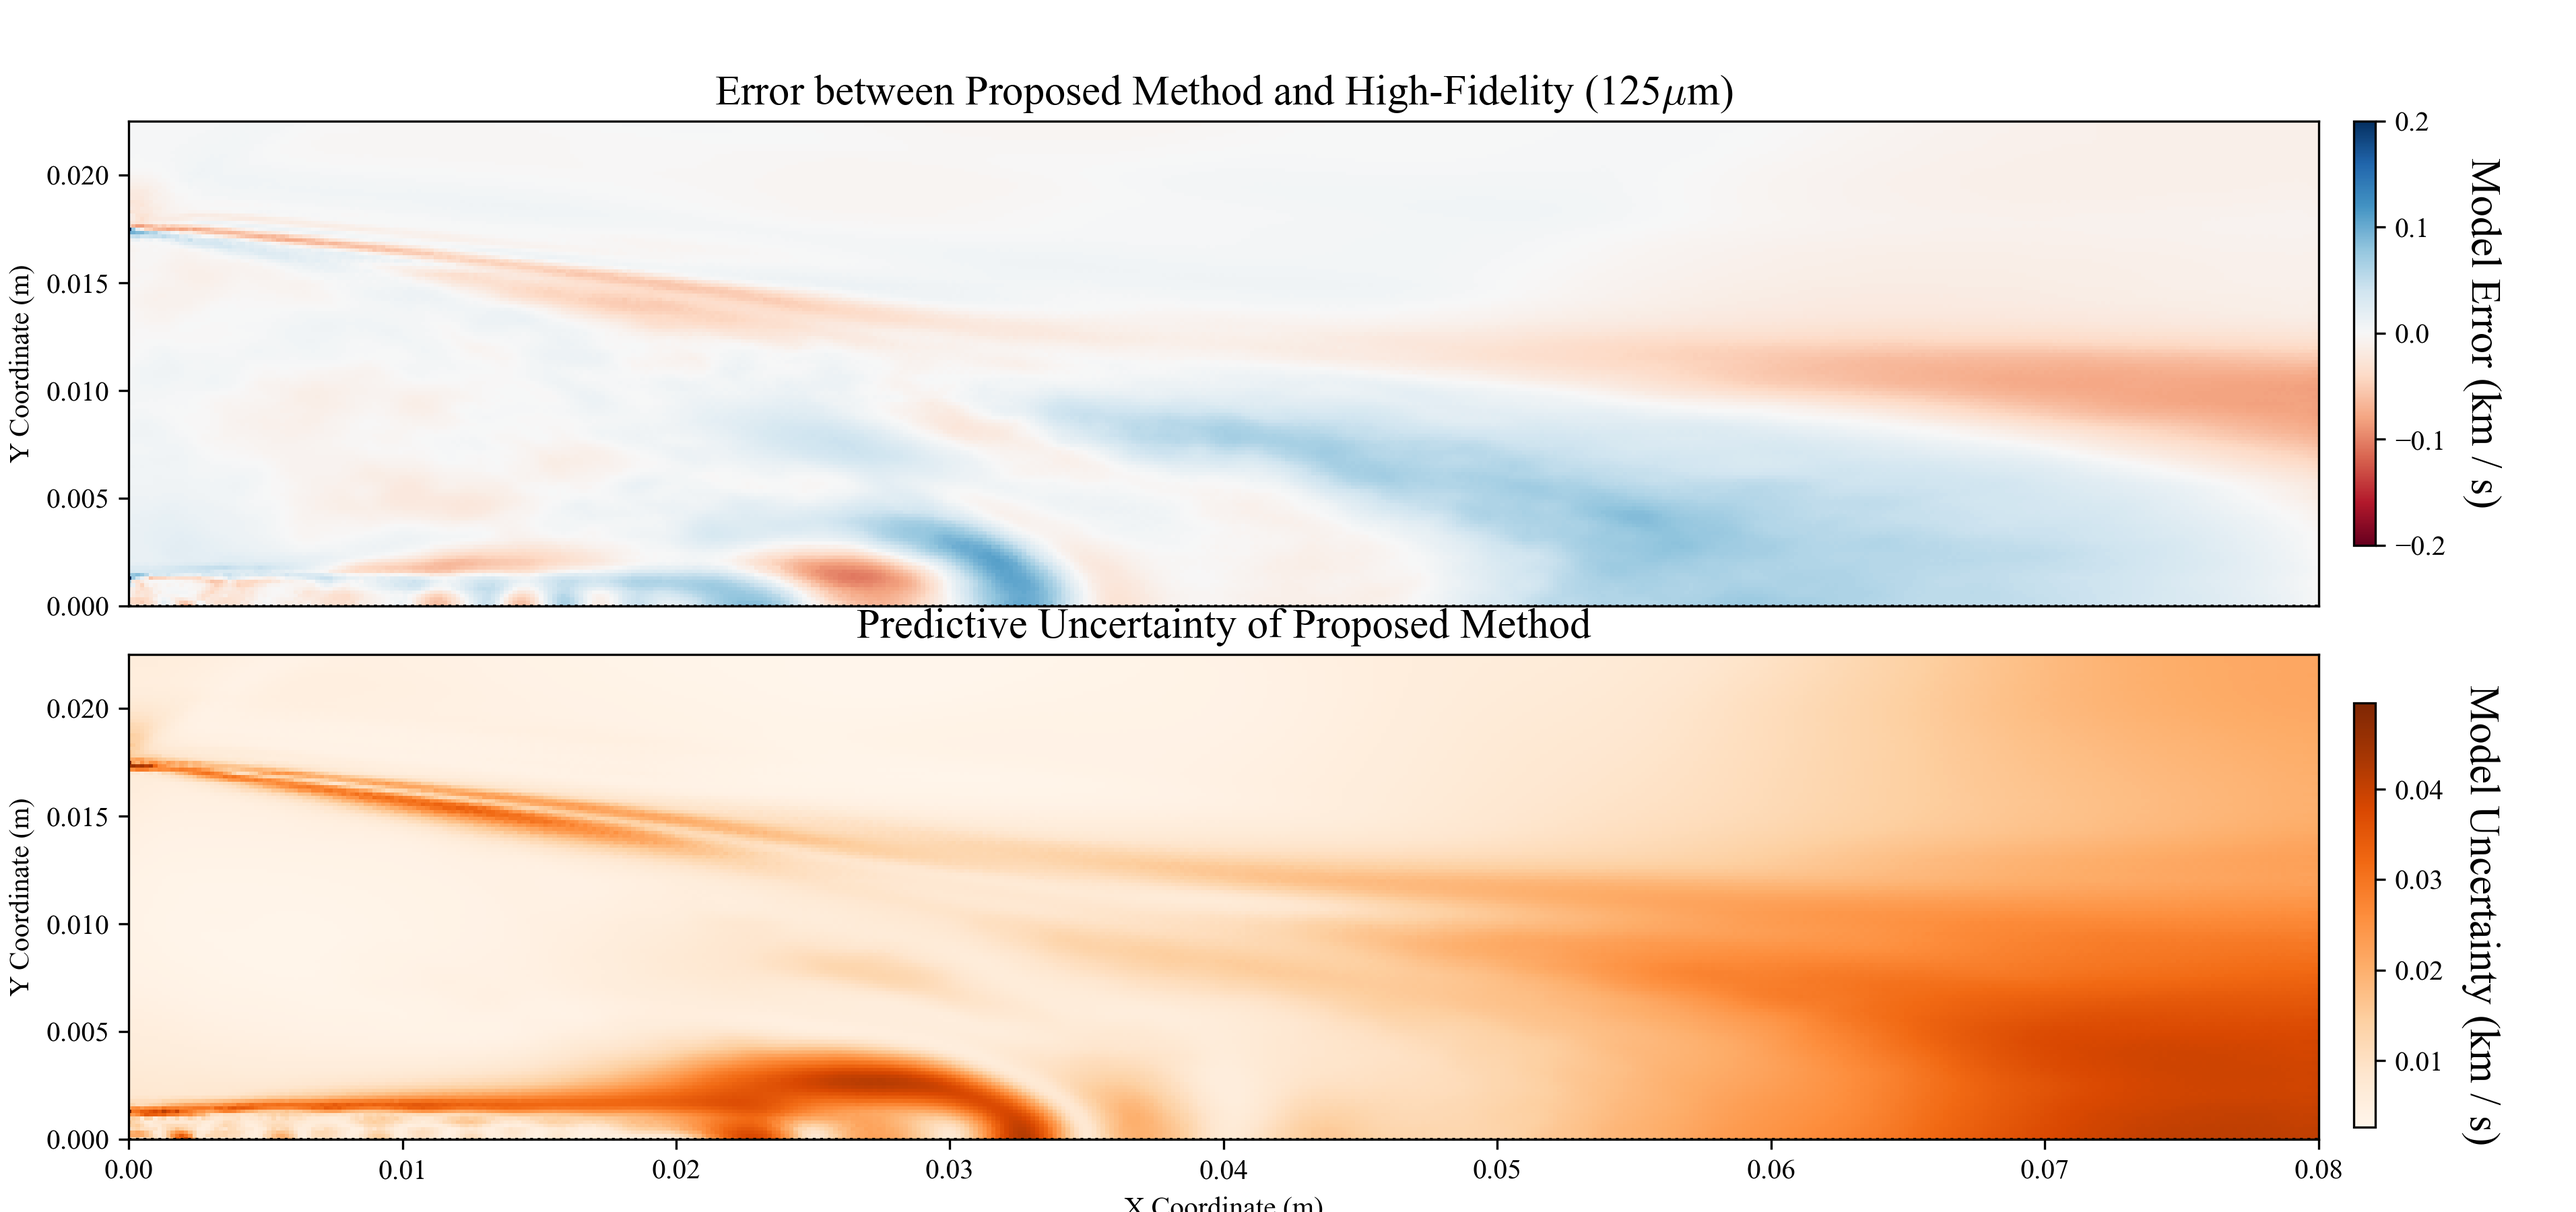
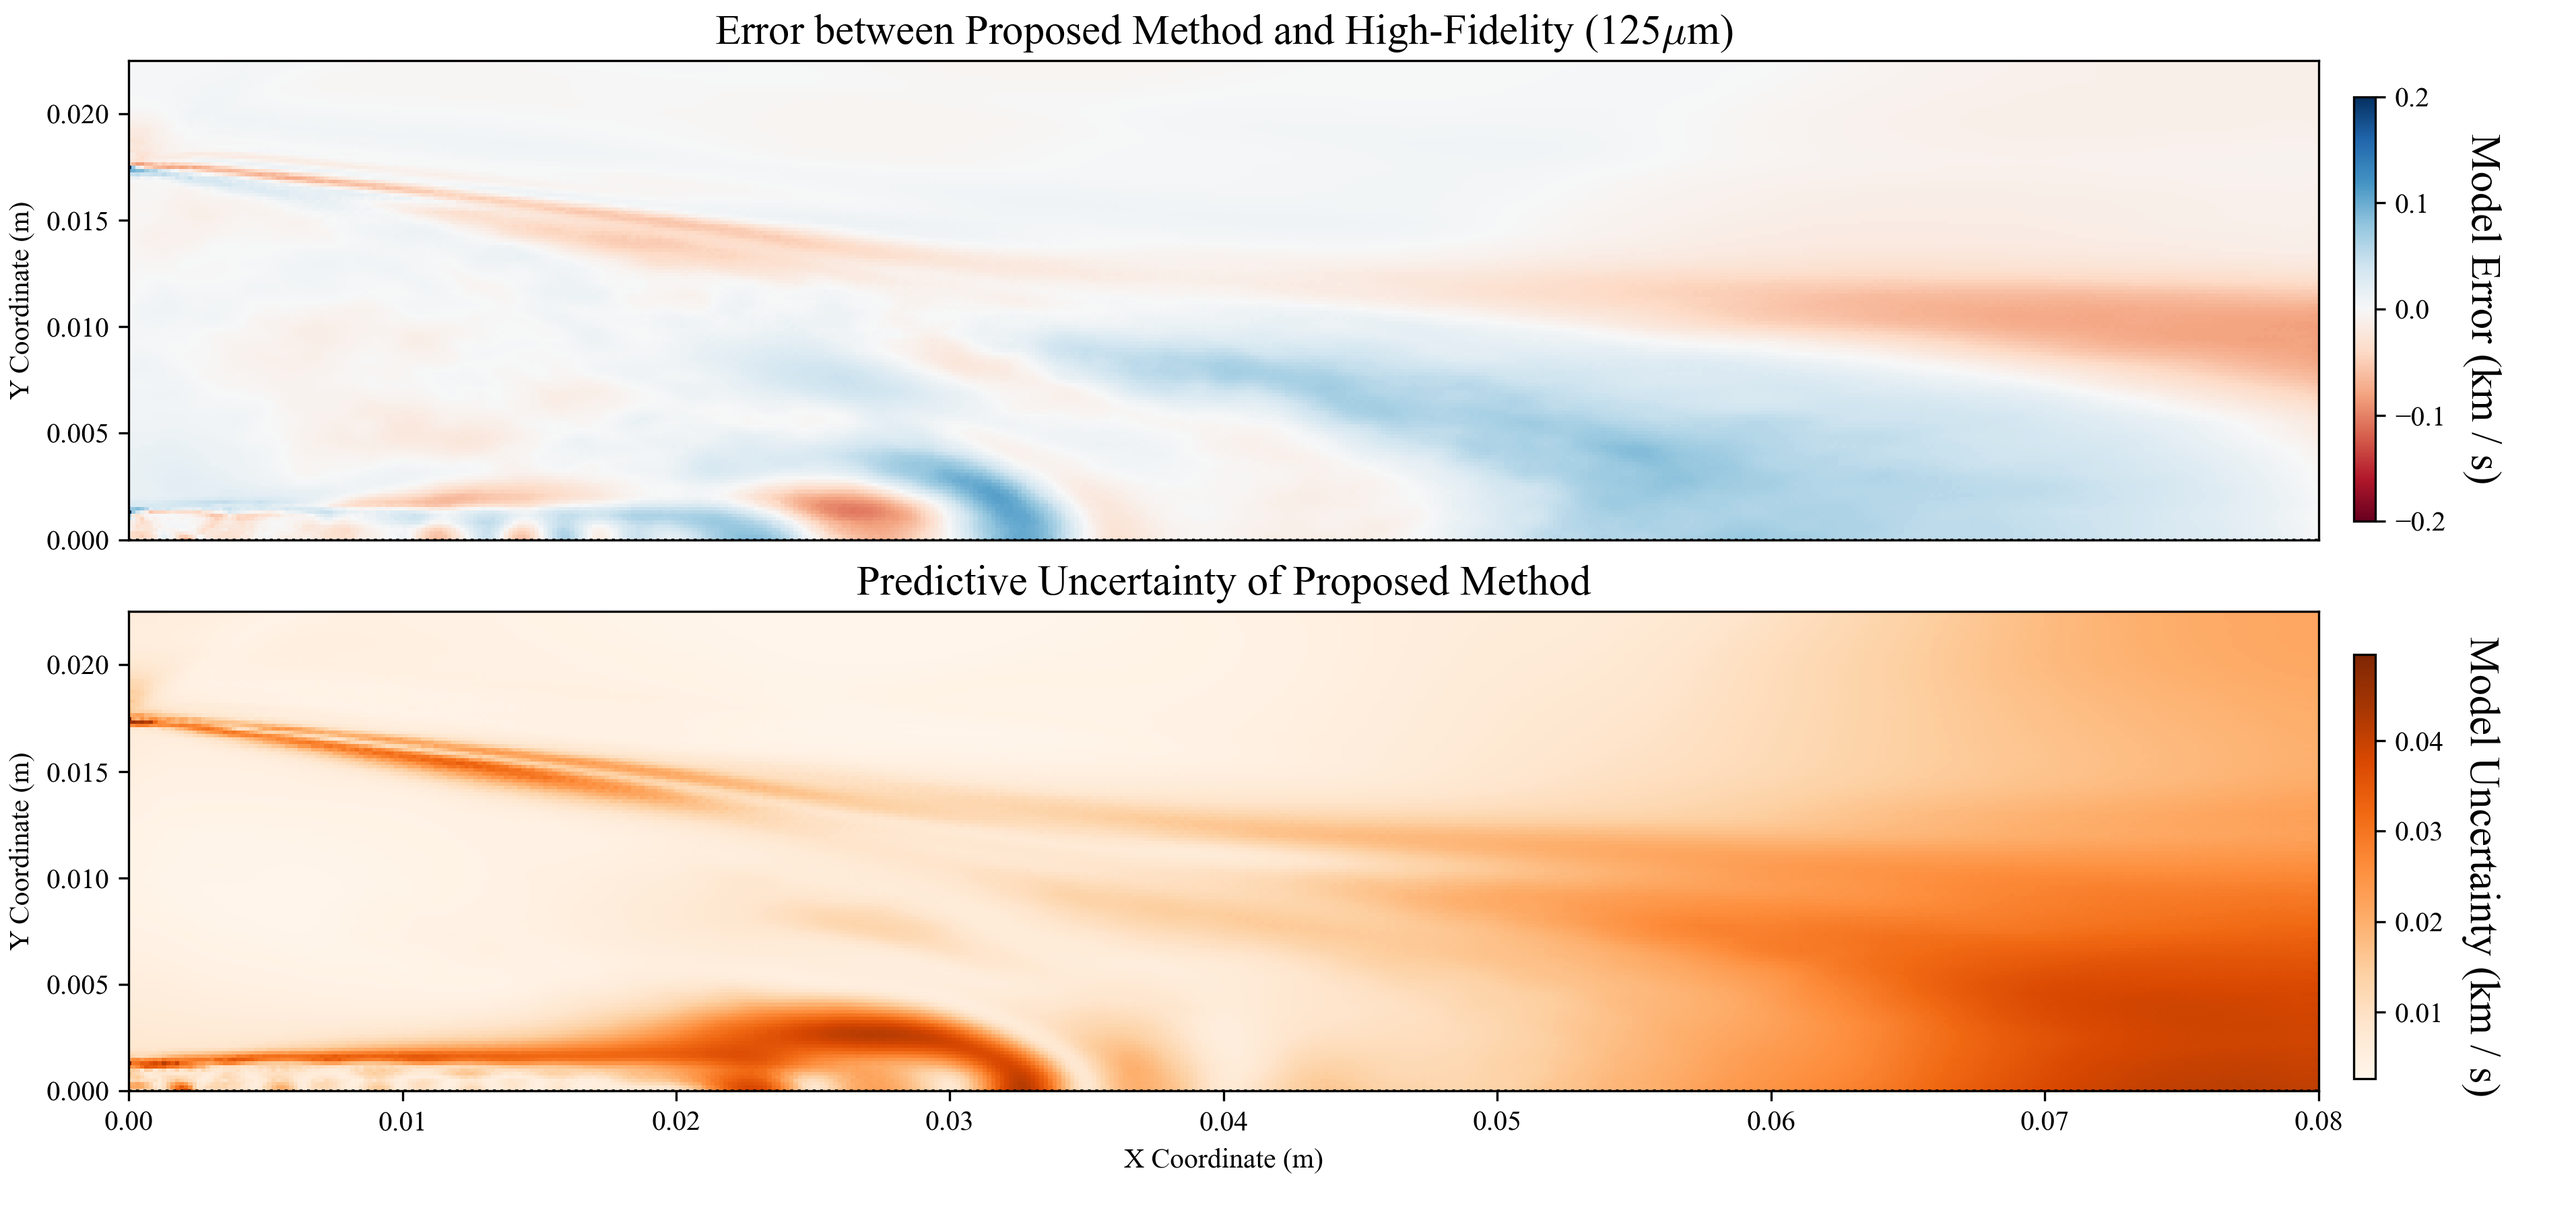
Minor plot changes

diff --git a/velocimetry/plotter.py b/velocimetry/plotter.py
@@ -343,7 +343,7 @@ def validation_plot():
     cbar_left.ax.yaxis.label.set_fontsize(15)
     cbar_left.ax.yaxis.labelpad = 20
     pos = cbar_left.ax.get_position()  # get current position [x0, y0, width, height]
-    cbar_left.ax.set_position([pos.x0 + 0.13, pos.y0+0.02, pos.width*0.5, pos.height])
+    cbar_left.ax.set_position([pos.x0 + 0.13, pos.y0+0.04, pos.width*0.5, pos.height])
 
     # Hyperkriging vs. 125 micrometer error plot
     im2 = ax2.pcolormesh(X, Y, jnp.sqrt(Z_hk_var), cmap = 'Oranges')
@@ -360,7 +360,7 @@ def validation_plot():
     cbar_right.ax.yaxis.label.set_fontsize(15)
     cbar_right.ax.yaxis.labelpad = 20 
     pos = cbar_right.ax.get_position()  # get current position [x0, y0, width, height]
-    cbar_right.ax.set_position([pos.x0 + 0.13, pos.y0-0.04, pos.width*0.5, pos.height])
+    cbar_right.ax.set_position([pos.x0 + 0.13, pos.y0-0.0, pos.width*0.5, pos.height])
 
     # # Confidence Interval Plot
     # from matplotlib.colors import ListedColormap, BoundaryNorm 
@@ -387,8 +387,8 @@ def validation_plot():
     # pos = cbar.ax.get_position()  # get current position [x0, y0, width, height]
     # cbar.ax.set_position([pos.x0 + 0.13, pos.y0-0.04, pos.width*0.5, pos.height])
 
-    fig.subplots_adjust(left=0.05, right=0.90, bottom=0.06, top=0.90)
-    fig.subplots_adjust(wspace=0.3, hspace=0.1)
+    fig.subplots_adjust(left=0.05, right=0.90, bottom=0.1, top=0.95)
+    fig.subplots_adjust(wspace=0.3, hspace=0.15)
     plt.savefig("results/validation_plot.png")
 
     # Computing the correlation between the error and the predictive uncertainty
@@ -396,6 +396,6 @@ def validation_plot():
     print(jnp.corrcoef(jnp.sqrt(Z_hk_var).ravel(), (jnp.abs((Z_hk - Z_125))).ravel())[0,1])
 
 if __name__ == "__main__":
-    comparison_plot()
+    # comparison_plot()
     # hf_plot() 
     validation_plot()
